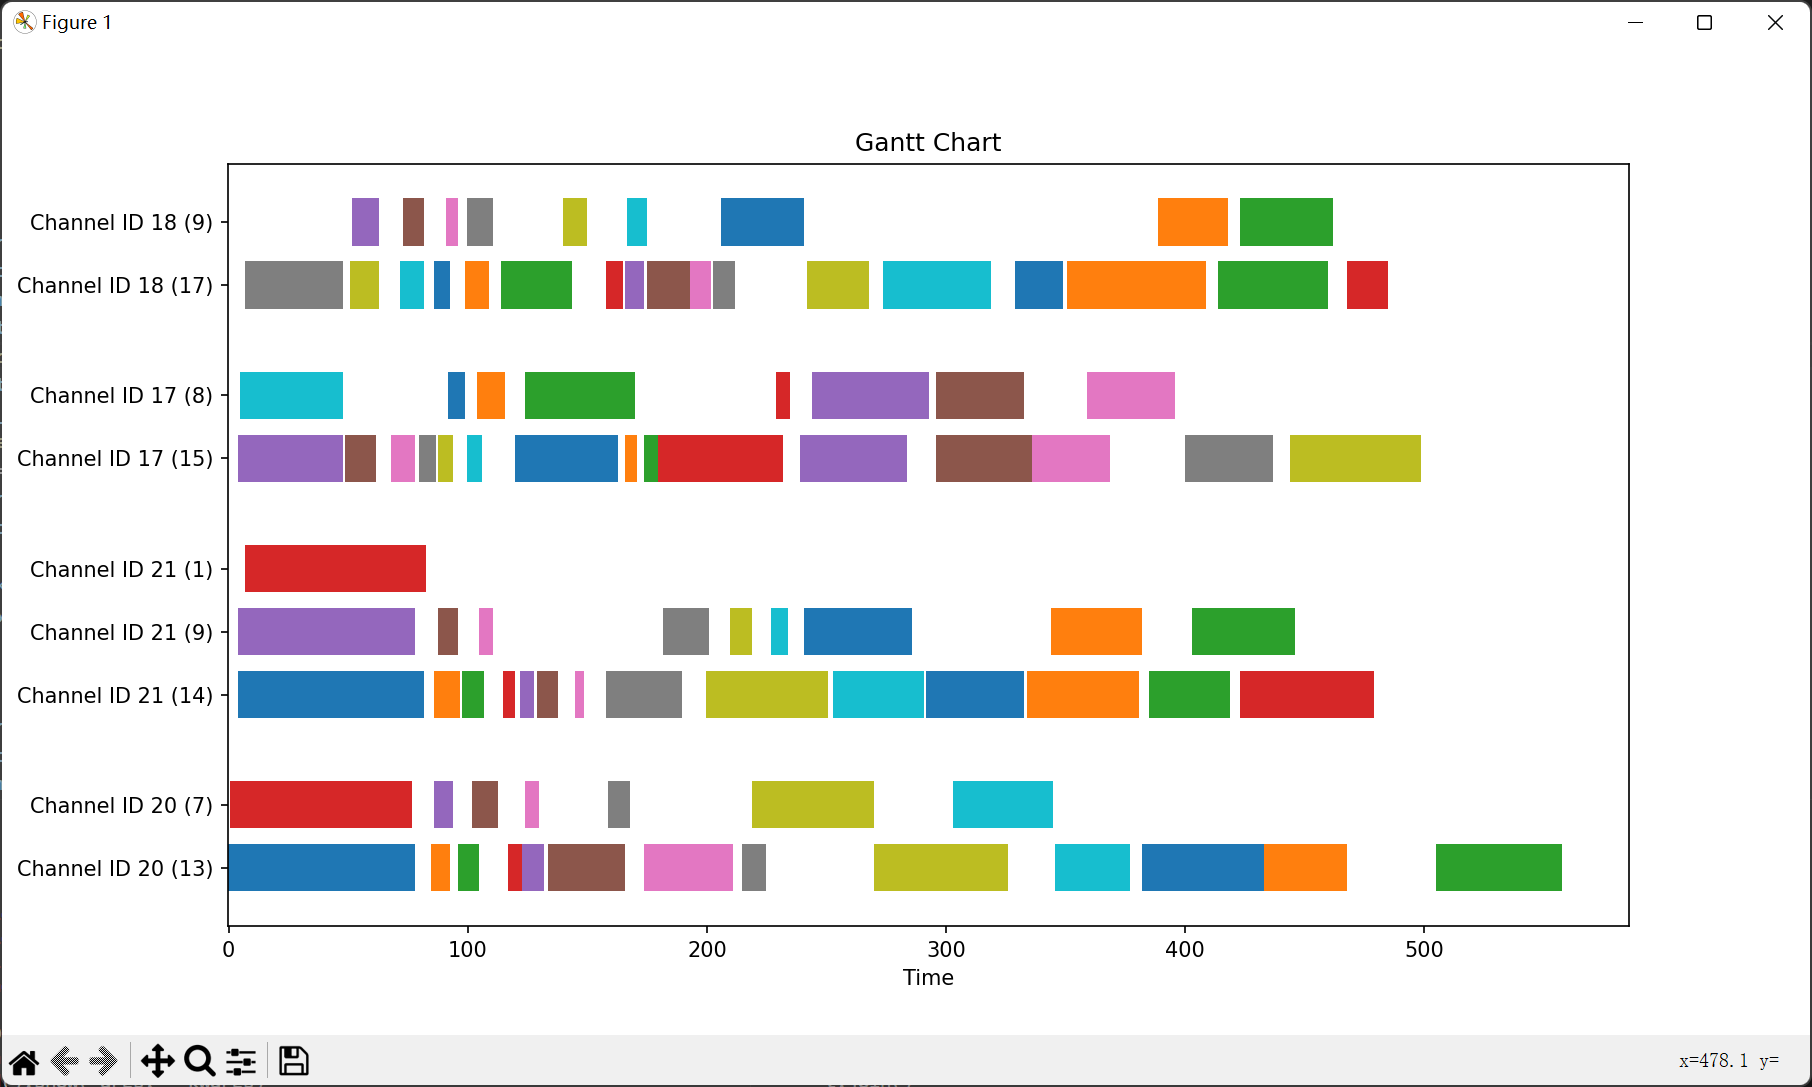
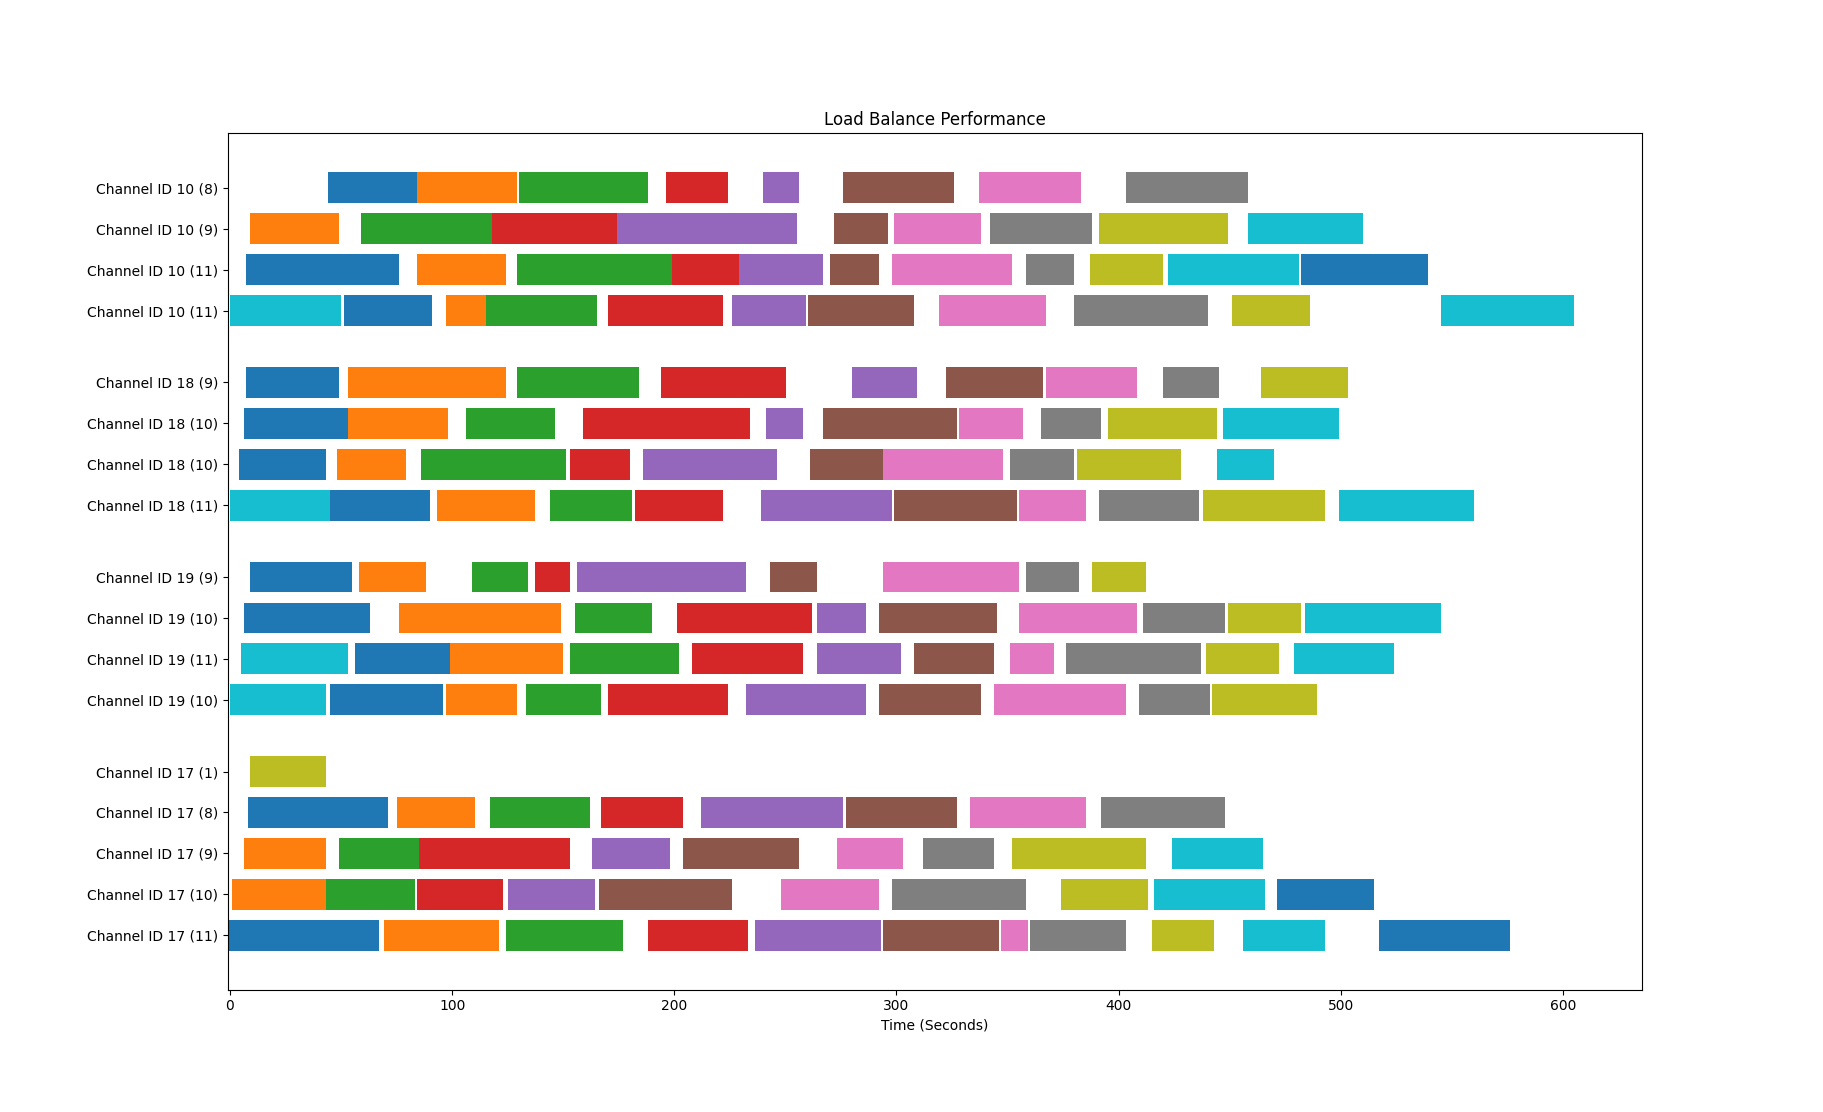
doc: update gantt chart

diff --git a/README_en.md b/README_en.md
@@ -203,7 +203,7 @@ model: gpt-3.5-turbo
 
 ## Performance
 
-Gantt chart of request time with 4 channel enabled and 8 threads in client side:  
+Gantt chart of request time with 4 channel enabled and 16 threads in client side, querying question "write a quick sort in Java":  
 (Channel labelled with `Channel ID <id> <request count>`, X axis is time in seconds)
 
-<img width="500" alt="image" src="assets/load_balance.png">
+<img width="750" alt="image" src="assets/load_balance.png">

diff --git a/README.md b/README.md
@@ -204,7 +204,7 @@ model: gpt-3.5-turbo
 
 ## 负载均衡性能
 
-启用4个通道，客户端8个线程的请求时间甘特图：  
+启用4个通道，客户端8个线程的请求时间甘特图，请求提问“write a quick sort in Java”：  
 (通道标记为 `Channel ID <id> <request count>`, X 轴为时间秒数)
 
-<img width="500" alt="image" src="assets/load_balance.png">
+<img width="750" alt="image" src="assets/load_balance.png">
